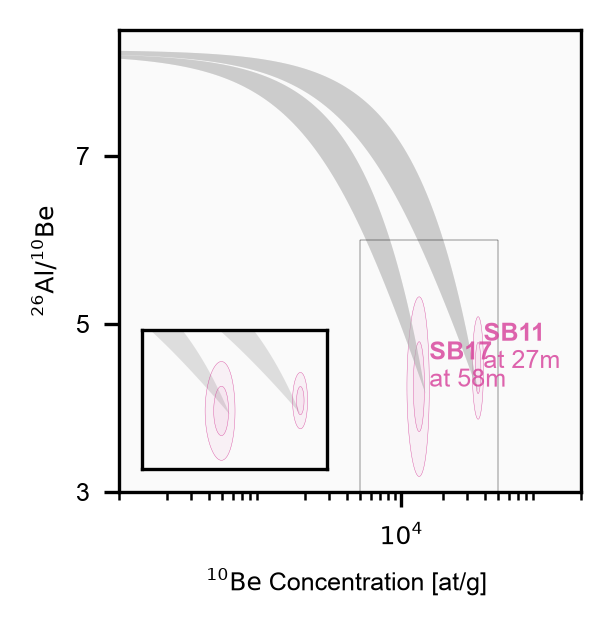
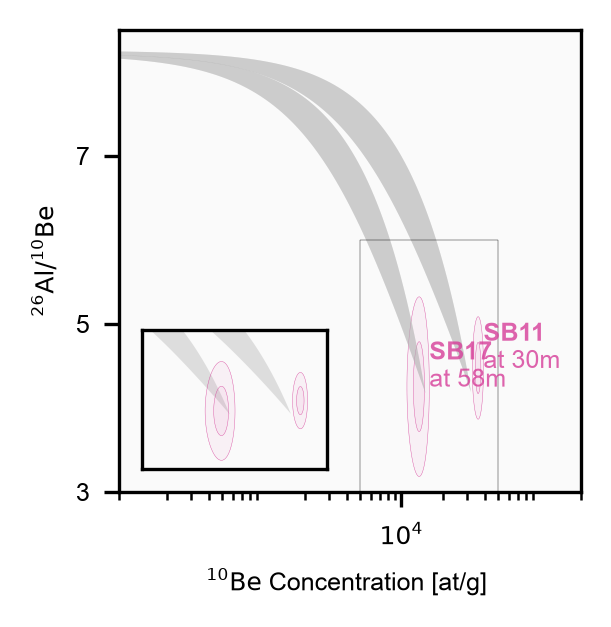
update

diff --git a/generate_figures/scripts/Fig2B_S5_Sec_equilibrium.py b/generate_figures/scripts/Fig2B_S5_Sec_equilibrium.py
@@ -16,7 +16,7 @@ fig_dir = main_path + "/generate_figures/figures"
 fig_name = "sec_equi"
 mpl.rcParams['font.family'] = 'Arial'
 
-st_model = steady_state_model()
+st_model = burial_exposure_model()
 
 class HandlerEllipse(handler.HandlerPatch):
     def create_artists(self, legend, orig_handle,
@@ -65,8 +65,8 @@ for i, sample_id in enumerate(samples_list):
     color_fill_island = tuple(rgb_base_island)
 
     depth_sample = (depth_max_sample + depth_min_sample) / 2
-    if sample_id == "SB-011":
-        depth_sample = depth_min_sample
+    # if sample_id == "SB-011":
+    #     depth_sample = depth_min_sample
 
     theta = np.linspace(0, 2 * np.pi, 100)
     x0 = observed_c10
@@ -107,7 +107,7 @@ for i, sample_id in enumerate(samples_list):
                              edgecolor='black', linestyle='-', linewidth=0.8)
     depth_handles.append(h_depth)
 
-    st_model = steady_state_model()
+    st_model = burial_exposure_model()
 
     N_be_series, N_al_series = st_model.plot_steady_state_model_depth(1.7, depth_sample, color="#B3B3B3")
 

diff --git a/generate_figures/scripts/FigS3_calc_Rc.py b/generate_figures/scripts/FigS3_calc_Rc.py
@@ -55,14 +55,14 @@ class calc_Rc:
 
         Rc = pd.DataFrame([(Rc_list[n:n + len(self.time)]) for n in range(0, len(Rc_list), len(self.time))])
         plt.figure(figsize=(10, 6),facecolor="white",alpha=0.1)
-        plt.plot(((np.arange(0,800,1))*50000)/1e6,Rc_list, label="Rc-MCADAM",color="gray")
+        plt.plot(((np.arange(0,800,1))*50000)/1e6,Rc_list, label="Cutoff Rigidity (Rc) - based on MCADAM",color="gray")
         ax = plt.gca()
         ax.set_facecolor("#FAFAFA")
         plt.xlabel("Age (Ma)",fontsize=16)
         plt.ylabel("Rc (GV)",fontsize=16)
         ax.set_xticklabels(ax.get_xticks(), fontsize=14)
         ax.set_yticklabels(ax.get_yticks(), fontsize=14)
-        plt.legend()
+        plt.legend(fontsize=14)
         plt.tight_layout()
         output_dir = os.path.join(main_path, "data")
         os.makedirs(output_dir, exist_ok=True)

diff --git a/support/aux_functions/__init__.py b/support/aux_functions/__init__.py
@@ -1,7 +1,7 @@
 from support.aux_functions import models_constants
 from support.aux_functions.nuclide_prod_concentration import cosmo_production
 from support.aux_functions.check_simple_exposure_region import check_simple_exposure_region
-from support.aux_functions.constant_steady_lines_model import steady_state_model
+from support.aux_functions.constant_steady_lines_model import burial_exposure_model
 
-__all__ = ["models_constants","cosmo_production", "check_simple_exposure_region", "steady_state_model"]
+__all__ = ["models_constants","cosmo_production", "check_simple_exposure_region", "burial_exposure_model"]
 
